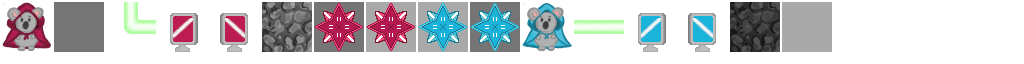
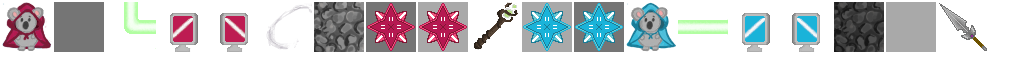
More assets

diff --git a/core/src/com/bksgames/game/views/gameScreen/legalMovesHandling/MainTableFactory.java b/core/src/com/bksgames/game/views/gameScreen/legalMovesHandling/MainTableFactory.java
@@ -43,10 +43,10 @@ public class MainTableFactory {
 		actionsTable.add(mirrorTable).left();
 //		actionsTable.add(MirrorButtonGetter.getMirrorButtonTable(backSlashButton, slashButton, atlas.findRegion("MirrorButton"))).left();
 
-		Table laserTable = produceBasicDirectionalContainer(atlas.findRegion("MirrorButton"), atlas.findRegion("LaserArrowButton"), factory, ActionToken.LASER);
+		Table laserTable = produceBasicDirectionalContainer(atlas.findRegion("MirrorButton"), atlas.findRegion("Wand"), factory, ActionToken.LASER);
 		actionsTable.add(laserTable).padLeft(distanceToAdjacentButton);
 
-		Table swordTable = produceBasicDirectionalContainer(atlas.findRegion("MirrorButton"), atlas.findRegion("DoorButton"), factory, ActionToken.SWORD);
+		Table swordTable = produceBasicDirectionalContainer(atlas.findRegion("MirrorButton"), atlas.findRegion("Dagger"), factory, ActionToken.SWORD);
 		actionsTable.add(swordTable).padLeft(distanceToAdjacentButton);
 
 		Table doorTable = produceBasicDirectionalContainer(atlas.findRegion("MirrorButton"), atlas.findRegion("DoorButton"), factory, ActionToken.DOOR);
